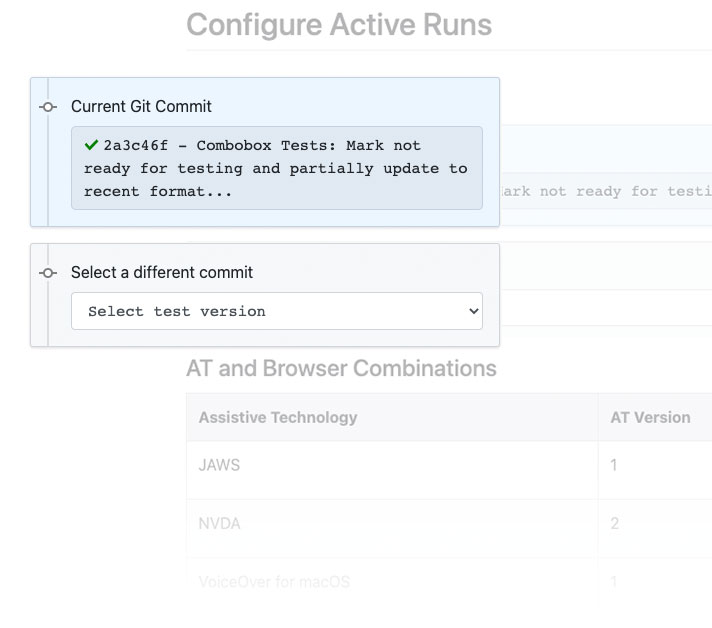
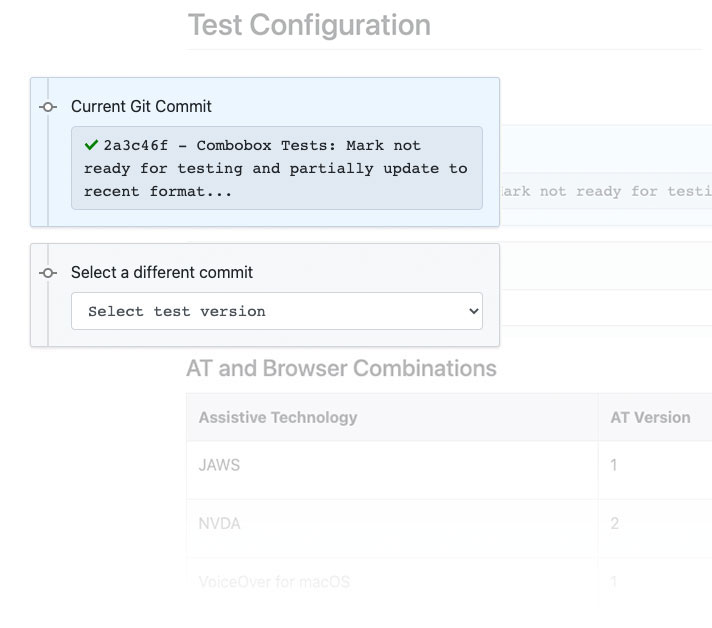
reorder nav and change Active Test Run to Test Configuration

Changed region(s): [[0.2472, 0.0, 0.7107, 0.0605]]

diff --git a/client/components/Home/index.jsx b/client/components/Home/index.jsx
@@ -4,7 +4,7 @@ import { Helmet } from 'react-helmet';
 import { Button, Container } from 'react-bootstrap';
 import { connect } from 'react-redux';
 import PropTypes from 'prop-types';
-import testManagementScreenshot from '../../assets/home-page/config-test.jpg';
+import testConfigurationScreenshot from '../../assets/home-page/config-test.jpg';
 import testQueueScreenshot from '../../assets/home-page/test-queue.jpg';
 import testViewScreenshot from '../../assets/home-page/test-run.jpg';
 import testReviewScreenshot from '../../assets/home-page/test-report.jpg';
@@ -101,7 +101,7 @@ class Home extends Component {
                 <section className="app-screenshots">
                     <div className="container">
                         <div className="description">
-                            <h2>Test Review</h2>
+                            <h2>Reviewing Test Reports</h2>
                             <p>
                                 After multiple runs have been recorded for a
                                 particular Test Plan, users can view a summary
@@ -118,7 +118,7 @@ class Home extends Component {
                     </div>
                     <div className="container">
                         <div className="description">
-                            <h2>Test Queue</h2>
+                            <h2>Browsing the Test Queue</h2>
                             <p>
                                 Testers can view in-progress Test Runs and
                                 assign themselves to run a specific test plan
@@ -151,7 +151,7 @@ class Home extends Component {
                     </div>
                     <div className="container">
                         <div className="description">
-                            <h2>Test Management</h2>
+                            <h2>Updating Test Configuration</h2>
                             <p>
                                 This app allows project administrators to create
                                 Test Runs for managing execution of tests of a
@@ -162,7 +162,7 @@ class Home extends Component {
                         </div>
                         <div className="screenshot">
                             <img
-                                src={testManagementScreenshot}
+                                src={testConfigurationScreenshot}
                                 alt="The current git commit for a Test run and the option to select a different one from a dropdown menu"
                             />
                         </div>

diff --git a/client/components/App/index.jsx b/client/components/App/index.jsx
@@ -105,16 +105,12 @@ class App extends Component {
                                 </React.Fragment>
                             )) || (
                                 <React.Fragment>
-                                    {isAdmin && (
-                                        <Nav.Link
-                                            as={Link}
-                                            {...this.navProps(
-                                                '/admin/configure-runs'
-                                            )}
-                                        >
-                                            Configure Active Runs
-                                        </Nav.Link>
-                                    )}
+                                    <Nav.Link
+                                        as={Link}
+                                        {...this.navProps('/reports')}
+                                    >
+                                        Test Reports
+                                    </Nav.Link>
                                     {isTester && (
                                         <Nav.Link
                                             as={Link}
@@ -123,12 +119,16 @@ class App extends Component {
                                             Test Queue
                                         </Nav.Link>
                                     )}
-                                    <Nav.Link
-                                        as={Link}
-                                        {...this.navProps('/reports')}
-                                    >
-                                        Test Reports
-                                    </Nav.Link>
+                                    {isAdmin && (
+                                        <Nav.Link
+                                            as={Link}
+                                            {...this.navProps(
+                                                '/admin/configure-runs'
+                                            )}
+                                        >
+                                            Test Configuration
+                                        </Nav.Link>
+                                    )}
                                     <Nav.Link
                                         as={Link}
                                         {...this.navProps('/account/settings')}

diff --git a/client/components/ConfigureActiveRuns/index.jsx b/client/components/ConfigureActiveRuns/index.jsx
@@ -653,10 +653,10 @@ class ConfigureActiveRuns extends Component {
         return (
             <Container as="main">
                 <Helmet>
-                    <title>Configure Active Runs | ARIA-AT</title>
+                    <title>Test Configuration | ARIA-AT</title>
                 </Helmet>
-                <h1 data-test="configure-run-h2">Configure Active Runs</h1>
-                <h2 data-test="configure-run-h3">Update Versions</h2>
+                <h1 data-test="configure-run-h2">Test Configuration</h1>
+                <h2 data-test="configure-run-h3">Test Version</h2>
                 <Form className="init-box">
                     {Object.keys(activeRunConfiguration.active_test_version)
                         .length > 0 ? (
@@ -784,7 +784,7 @@ class ConfigureActiveRuns extends Component {
                         disabled={!enableSaveButton}
                         onClick={this.configureActiveRuns}
                     >
-                        Update Active Run Configuration
+                        Update Test Configuration
                     </Button>
                 </div>
                 {this.state.resultsDeleted && (

diff --git a/client/tests/ConfigureActiveRuns.test.jsx b/client/tests/ConfigureActiveRuns.test.jsx
@@ -101,11 +101,11 @@ describe('render', () => {
         test('renders component ui sections with an existing active test version', () => {
             let component = findByTestAttr(wrapper, 'configure-run-h2');
             expect(component.length).toBe(1);
-            expect(component.text()).toContain('Configure Active Runs');
+            expect(component.text()).toContain('Test Configuration');
 
             component = findByTestAttr(wrapper, 'configure-run-h3');
             expect(component.length).toBe(1);
-            expect(component.text()).toContain('Update Versions');
+            expect(component.text()).toContain('Test Version');
 
             component = findByTestAttr(wrapper, 'configure-run-commit-select');
             expect(component.length).toBe(1);
